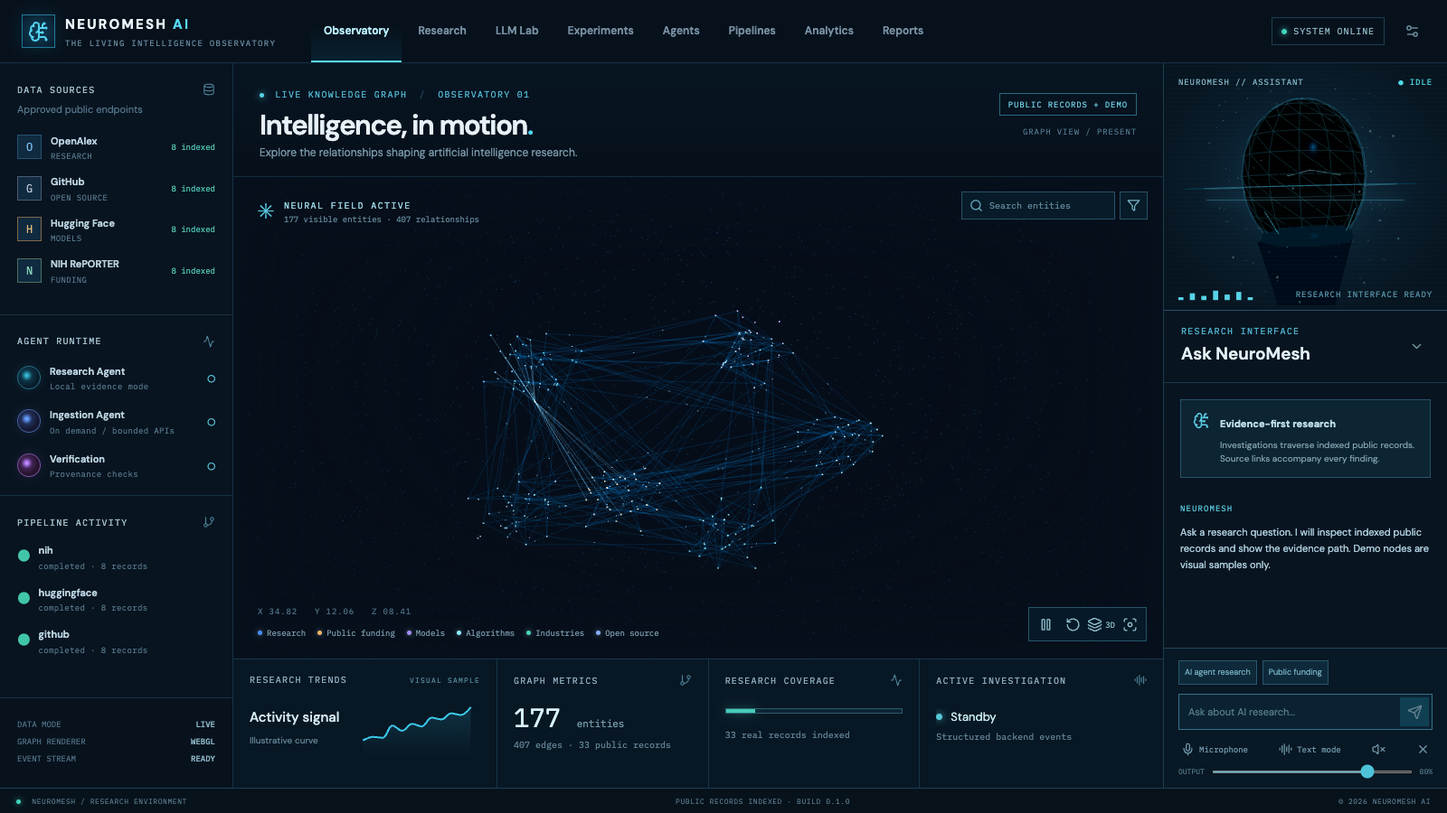
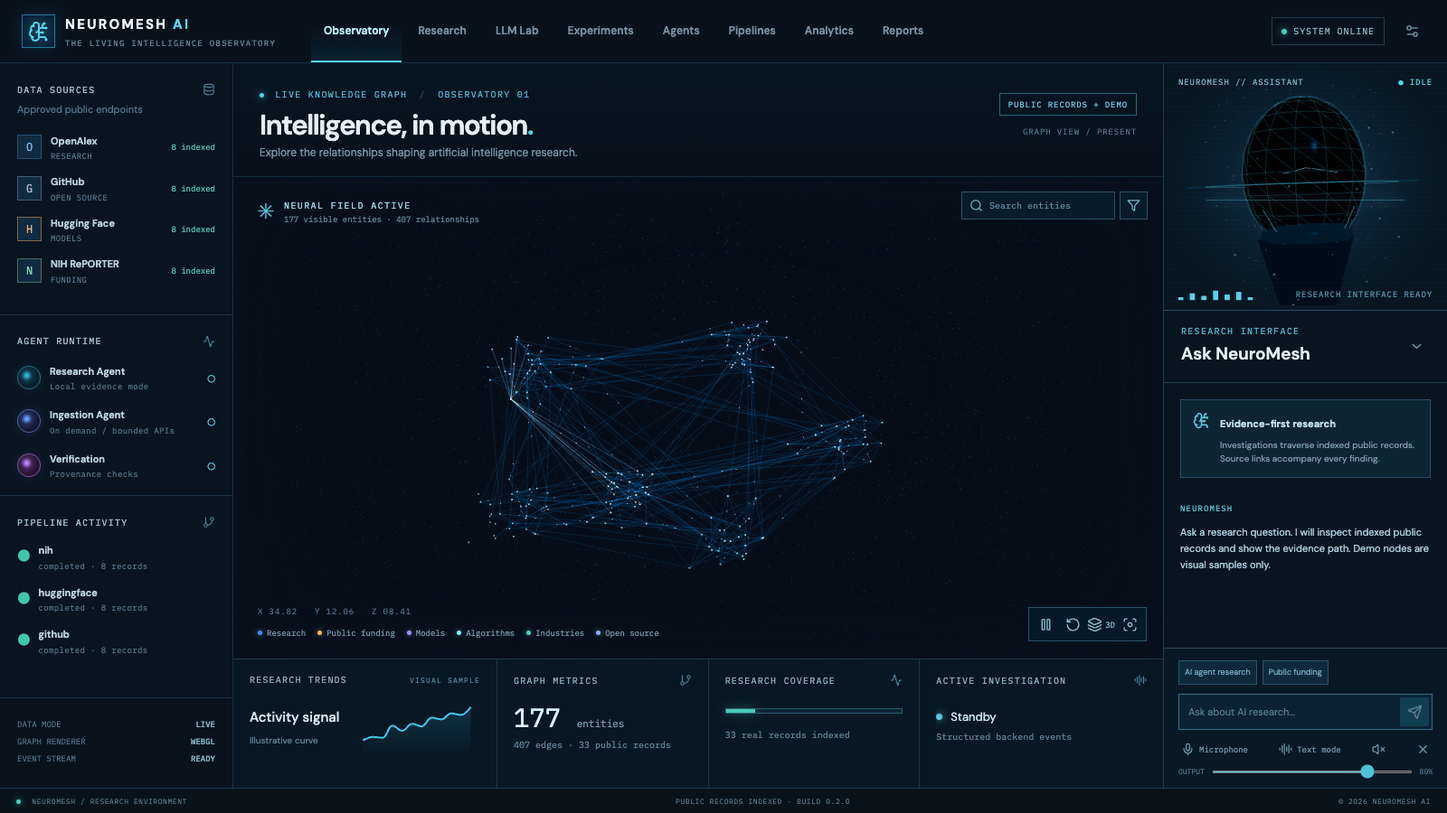
Document verified Observatory and staged Google Cloud cost gate

Changed region(s): [[0.3438, 0.3733, 0.625, 0.6844], [0.8438, 0.1244, 0.9688, 0.28]]

diff --git a/README.md b/README.md
@@ -1,49 +1,48 @@
 # NeuroMesh AI
 
-NeuroMesh AI is an open source research workbench for tracing public AI research, funding, models, and software through a 3D evidence graph. It asks how research growth relates to public investment, open source implementation, and documented adoption; it does not treat a search match as proof of a relationship.
+NeuroMesh AI is an open source research workbench for tracing public AI research, funding, models, and software through an interactive 3D evidence graph. Its central question is how research growth relates to public investment, open source implementation, and documented adoption. A search match is never treated as proof of a relationship.
 
 ![NeuroMesh AI Observatory](docs/screenshots/observatory-home.png)
 
-The screenshot is from the running React and FastAPI application. It shows 32 public records collected in a bounded local sync and a separately labeled demonstration graph used to exercise the visualization.
+This is a Playwright screenshot of the running React and FastAPI application. It contains 32 indexed public records from a bounded local sync and a separately labeled visual demonstration layer.
 
-## Current implementation
+## What works today
 
-The Observatory renders animated WebGL points, typed edges, directional particles, camera controls, search, category filtering, selection, and a procedural shadow hologram. The assistant accepts typed questions and streams actual backend retrieval events over Server-Sent Events; matched records light up in the graph and source links appear in the answer. Browser speech recognition and speech synthesis are available where supported, with explicit microphone activation, mute, interruption, volume, and word-boundary-driven jaw motion. The avatar and voice path need more rigorous timing validation before release claims about speech synchronization.
+The Observatory renders an animated WebGL field, typed edges, directional particles, camera controls, search, filters, selection, a source inspector, and a procedural shadow hologram. Typed questions trigger real Server-Sent Events from indexed retrieval. Matched nodes illuminate, and answers include source links. The Research page searches indexed records; Pipelines displays actual ingestion jobs; Analytics shows live graph measurements and deterministic TF-IDF title clusters. Agents displays operator-only execution history when available. LLM Lab, Experiments, and Reports clearly report that no measured runs exist.
 
-The API stores original public records, normalized entities, evidence, edges, ingestion jobs, and investigations in SQLite for local development. OpenAlex, GitHub, Hugging Face, and NIH RePORTER connectors use documented public APIs, bounded page sizes, and source URLs. An authenticated admin endpoint starts syncs. Public investigation calls use local evidence retrieval and have an in-memory rate limit. A configured Google ADK agent may synthesize from a bounded evidence catalog only when an operator supplies an admin token, model, and credentials. No provider model call is made by default.
+Browser speech recognition is available where supported after explicit microphone activation. Browser synthesis uses word-boundary timing. The optional operator-only Google Cloud Text-to-Speech path decodes generated audio in Web Audio and drives the hologram jaw from its PCM amplitude; stopping playback stops the animation. No raw microphone recording is stored by the app. Voice behavior depends on browser permissions and configured cloud access.
 
 ## Architecture
 
 ```text
-Public APIs → bounded connectors → source records + evidence → entities / verified title edges
-                                                      ↓
-React + Three.js ← JSON graph + SSE events ← FastAPI research service
-                                     ↘ deterministic graph analytics
-                                      ↘ optional, admin-only Google ADK synthesis
+Approved public APIs → bounded connectors → records, evidence, entities, typed edges
+                                               ↓
+React / Three.js ← graph JSON + actual SSE events ← FastAPI → PostgreSQL or SQLite
+                                                   ├→ PageRank and TF-IDF analysis
+                                                   ├→ operator-only ADK research → verification
+                                                   └→ operator-only Cloud Text-to-Speech
 ```
 
-See [system architecture](docs/architecture/system.md) for the data path and trust boundaries. The intended production architecture is Cloud Run, Cloud SQL PostgreSQL with pgvector, Cloud Storage, Cloud Run Jobs, Pub/Sub, Scheduler, Secret Manager, and Vertex AI. The present code is a local prototype; the included Terraform is a Cloud Run API preview and does not provide durable persistence.
+See [system architecture](docs/architecture/system.md) for trust boundaries and storage. The Google Cloud target is one capped Cloud Run service serving the React bundle and API, backed by a dedicated Cloud SQL PostgreSQL instance, Artifact Registry, Secret Manager, and a scoped runtime service account. Terraform has been validated but **not applied**.
 
-## Stack
+## Stack and graph semantics
 
-React 19, TypeScript, Vite, React Three Fiber, Three.js, Tailwind CSS, ECharts, FastAPI, SQLite, NetworkX, optional Google ADK, Vitest, Pytest, and Playwright. The main scene uses buffer geometry for entity points, lines, and moving edge particles, plus instanced hit targets. It pauses rendering updates in hidden tabs and honors reduced motion preferences.
+React 19, TypeScript, Vite, React Three Fiber, Three.js, Tailwind CSS, ECharts, FastAPI, SQLite/PostgreSQL, NetworkX, Google ADK, Google Cloud Text-to-Speech, Vitest, Pytest, and Playwright. The scene uses buffer geometry and instanced hit targets, pauses updates in hidden tabs, and honors reduced motion preferences.
 
-## Sources and graph semantics
+Each source record has an external ID, original JSON, URL, and retrieval time. Entities point to source records; relationships have a type, confidence class, optional evidence ID, and demo flag. The current extractor creates a verified `MENTIONS` edge only when a record title literally contains the collection query. Demo edges have no evidence and are never included in live analytics.
 
-| Source | Record type | Current connector |
+| Source | Record type | Connector |
 | --- | --- | --- |
 | [OpenAlex](https://docs.openalex.org/) | Publications | Works search |
 | [GitHub](https://docs.github.com/en/rest/search) | Repositories | Repository search |
 | [Hugging Face Hub](https://huggingface.co/docs/hub/api) | Models | Public models API |
 | [NIH RePORTER](https://api.reporter.nih.gov/) | Public awards | Project search v2 |
 
-Entities have an ID, type, label, source record, and demo flag. Relationships have a type, confidence class, optional evidence ID, and demo flag. The current extractor creates a `MENTIONS` edge only when a record title literally contains the collection query. That edge is `verified` against a source URL. Search results without a literal match remain unconnected records. Demo edges are marked `similarity` and carry no evidence. Future extractors must preserve the distinction among verified, extracted, inferred, and semantic edges.
+## Agents, analytics, and research method
 
-## Agent orchestration and analysis
+Public investigations use bounded local evidence retrieval. With an operator token, configured Vertex model, and explicit ADK enablement, a Google ADK research agent reads a bounded catalog and a verification agent checks its draft against that catalog. ADK execution events and token counts are recorded; model calls are limited to four per investigation, 60 seconds, and 20 investigations per day by default. Provider calls are off by default. Retrieved text is treated as data, and agent tools cannot execute commands or arbitrary SQL.
 
-The research endpoint emits `investigation.started`, `agent.activated`, `query.planned`, `source.search.*`, `entity.matched`, `graph.path.selected`, `analysis.*`, `response.streaming`, and `investigation.completed` events during actual execution. The default answer is deterministic and explicitly limits its claims. The optional ADK path is configured with a bounded `get_evidence` tool and instructions to cite exact URLs and reject instructions embedded in source text. Agent retries, traces, cost accounting, and a full specialist team remain future work.
-
-`GET /api/analytics` computes connected components, density, and PageRank by deterministic power iteration. It excludes demo nodes by default. This is graph structure analysis, not a result about the primary research question. The [research protocol](docs/research/methodology.md) prespecifies the 2023–2026 hypothesis, lag windows, indicators, missingness checks, and confidence interval plan.
+`GET /api/analytics` computes PageRank, density, and connected components on live nodes. `GET /api/clusters` builds deterministic TF-IDF vectors from source titles, joins records above a fixed cosine threshold, and returns a dataset SHA-256 fingerprint plus source URLs. Title clustering is a lexical baseline, not a scientific relationship result. The [prespecified research protocol](docs/research/methodology.md) defines the 2023–2026 hypothesis, lag windows, missingness checks, and confidence interval plan. **The primary scientific experiment has not run**, and there are no published correlations or model rankings.
 
 ## Local development
 
@@ -58,32 +57,32 @@ python3 -m venv .venv
 npm run dev
 ```
 
-Open `http://127.0.0.1:5173`. The API starts with a clearly labeled seeded graph. To collect public records locally without credentials:
+Open `http://127.0.0.1:5173`. The seeded visual layer is explicitly marked as demonstration data. To index a bounded public sample:
 
 ```bash
 .venv/bin/python scripts/sync_public.py --query 'artificial intelligence' --limit 8
 ```
 
-The script makes at most one bounded request to each of four public APIs and persists original payloads and URLs in `data/neuromesh.db`, which is ignored by Git. To use the admin HTTP sync endpoint, set a long `NEUROMESH_ADMIN_TOKEN` outside the repository and pass it in `X-Admin-Token`. To enable ADK synthesis, also configure `NEUROMESH_ENABLE_ADK=true`, `NEUROMESH_MODEL`, and supported Google credentials. Anonymous visitors cannot trigger model calls.
+The command makes one request to each of four approved public APIs. SQLite lives in ignored `data/neuromesh.db`. To use the operator HTTP endpoints, set a long `NEUROMESH_ADMIN_TOKEN` outside Git and enter it in the Observatory settings. A PostgreSQL URL can be supplied with `NEUROMESH_DATABASE_URL`. The optional `NEUROMESH_ENABLE_ADK`, `NEUROMESH_MODEL`, and `NEUROMESH_ENABLE_CLOUD_TTS` settings require Google credentials and may incur charges.
 
 ## Google Cloud deployment
 
-The preview Dockerfile and Terraform module are in `services/api` and `infrastructure/terraform`. They define one capped Cloud Run API instance in `us-central1`, with ADK disabled. This preview uses ephemeral SQLite and is unsuitable for retained research data. A production deployment requires Cloud SQL integration and migrations, a frontend service, service identities, Secret Manager bindings, scheduled ingestion, and a durable rate limiter. No cloud resource is created by this repository. Review the [cost gate](docs/architecture/costs.md) before enabling billing; the minimum persistent Cloud SQL compute scenario is about $7.67/month before storage and other services.
+Deployment is staged in [Terraform](infrastructure/terraform/main.tf). The module targets the **existing** `moesautomationweekly` project and uses new NeuroMesh-specific names. Stage one creates the image repository, runtime identity, secrets, and a dedicated 10 GiB `db-f1-micro` PostgreSQL instance. Stage two builds and deploys a single max-one-instance Cloud Run service. No existing project service or database is in Terraform state. The verified stage-one plan is **14 additions, 0 changes, 0 deletions**. A detailed runbook is in [GCP deployment](docs/architecture/gcp-deployment.md).
 
-## Testing and observed results
+No GCP resources have been provisioned. Review the [monthly cost estimate and guardrails](docs/architecture/costs.md) before applying Terraform or running Cloud Build. Baseline persistent cost is estimated around $10–$15/month at low traffic, with additional usage charges. ADK and Cloud TTS default to off. Terraform state contains generated secrets and must remain private.
+
+## Tests and observed results
 
 ```bash
 npm run build
 npm test
 .venv/bin/pytest -q services/api/tests
-npm run test:e2e  # with both development servers running
+npm run test:e2e       # with the local API and web servers running
 node scripts/capture_observatory.mjs
 ```
 
-The initial local sync returned eight records from each of the four sources. Browser verification confirmed the homepage, both WebGL canvases, a completed investigation event stream, and zero page errors during screenshot capture. Backend tests cover demo separation, admin gating, citation provenance, bounded investigation behavior, and repeatable graph metrics. These are engineering checks; **the primary scientific experiment has not been run**, so there are no reported correlations or model benchmark results.
+The local four-source sync returned eight records per source. Automated checks cover API authorization, provenance, idempotent ingestion, repeatable graph metrics, deterministic title clusters, PostgreSQL integration, Observatory rendering, a cited investigation, Research navigation, and Analytics display. Playwright captured the screenshot above from the working app with zero page errors. The ADK and paid Cloud voice paths are wired but have not made paid provider calls or passed a deployed integration test.
 
 ## Limitations and next work
 
-The research, LLM Lab, Experiments, Agents, Pipelines, Analytics, and Reports tabs are navigation scaffolds; the Observatory is the implemented workbench. Search is lexical over a small local index. The 3D layout is a seeded cluster and spring simulation; larger graph layout, drag interactions, temporal snapshots, camera guided traversal, and stronger level of detail are pending. Browser speech APIs vary by platform, and word boundaries are not phoneme or amplitude data. The full Google Cloud speech pipeline, durable Postgres and pgvector store, broader ingestion catalog, entity resolution, multi-agent ADK workflow, reproducible primary study, and provider evaluation lab are not implemented.
-
-The next milestone is durable data and richer evidence extraction, followed by voice timing and agent orchestration. No research claim should be published until the prespecified experiment is executed and reviewed.
+The graph still relies on a seeded visual layer to demonstrate density while the live index is small. Search is lexical; only literal title mentions create verified edges. The primary study, broader public connectors, source alias resolution, pgvector embeddings, scheduled jobs, historical snapshots, full experiment runner, provider comparison lab, and durable multi-turn agent context remain incomplete. Browser speech support varies; the Cloud TTS path still requires a deployed integration test. Cloud deployment and ingestion are pending the cost approval required for this project. These gaps are tracked as implementation work, not presented as research results.

diff --git a/docs/architecture/gcp-deployment.md b/docs/architecture/gcp-deployment.md
@@ -1,0 +1,55 @@
+# Google Cloud deployment runbook
+
+This runbook is prepared for the existing `moesautomationweekly` project. **Applying it creates billable resources.** Review [costs.md](costs.md) and obtain the project's cost approval first. The current build has only inspected the project and run a read-only Terraform plan.
+
+## Preflight
+
+Use an authenticated Google Cloud CLI account with the required project, IAM, Cloud SQL, Artifact Registry, Secret Manager, Cloud Build, and Cloud Run permissions. Existing Cloud Run services and the existing SQL instance are outside this Terraform state. The required APIs are already enabled in the project. Verify the current account, project, and Terraform plan before applying.
+
+```bash
+gcloud auth list
+gcloud config set project moesautomationweekly
+cd infrastructure/terraform
+terraform init
+terraform validate
+terraform plan -var project_id=moesautomationweekly -var deploy_app=false
+```
+
+Stage one should show 14 additions and zero changes or deletions from an empty state. The SQL instance is deletion protected. Store Terraform state privately; it contains generated database and operator secrets. Before repeated team use, migrate state to a private encrypted backend with limited access.
+
+## Stage one: durable infrastructure
+
+After cost approval and a project budget alert are in place:
+
+```bash
+terraform apply -var project_id=moesautomationweekly -var deploy_app=false
+```
+
+This creates a dedicated database, repository, service account, Secret Manager entries, and narrow IAM grants. It does not start Cloud Run or enable ADK/TTS.
+
+## Stage two: image and service
+
+From the repository root, use the repository URI from Terraform output. Build the multi-stage Dockerfile with Cloud Build and push an immutable image tag:
+
+```bash
+IMAGE=us-central1-docker.pkg.dev/moesautomationweekly/neuromesh/observatory:0.2.0
+gcloud builds submit --project moesautomationweekly --config cloudbuild.yaml --substitutions _IMAGE=$IMAGE .
+cd infrastructure/terraform
+terraform plan -var project_id=moesautomationweekly -var deploy_app=true -var image=$IMAGE
+terraform apply -var project_id=moesautomationweekly -var deploy_app=true -var image=$IMAGE
+terraform output -raw app_url
+```
+
+Cloud Run is public so visitors can explore indexed records and submit bounded local investigations. Model calls, source synchronization, and Cloud speech require the operator token. Retrieve that token in a private terminal using `terraform output -raw operator_token` and enter it in the app settings. The token is held in browser memory for that tab. Do not put it in URLs, Git, screenshots, or shared logs.
+
+The initial Cloud SQL database is empty except for the labeled visual demonstration layer. In the app settings, run the bounded four-source sync as operator, then verify the source counts, evidence links, Research records, and Analytics fingerprint. Repeated syncs upsert records by stable source ID.
+
+## Optional paid model and voice
+
+After a separate provider usage review, set `enable_adk=true`, `model_id=gemini-3.5-flash-lite`, and `model_location=global` in a Terraform plan. The model identifier and endpoint were checked against current Google documentation; verify availability again before applying. The runtime service account receives `roles/aiplatform.user` only when ADK is enabled. Cloud TTS may be enabled with `enable_cloud_tts=true`. Both are disabled by default and are restricted to operator requests with persistent daily usage reservations.
+
+The browser microphone path uses browser speech recognition; Cloud TTS supplies generated playback audio and jaw amplitude. Verify the voice path on the deployed URL in a supported browser before describing it as production validated.
+
+## Operational checks
+
+Check `/api/health`, `/api/status`, `/api/analytics`, and `/api/clusters`. Review Cloud Run revisions, Cloud SQL health, Cloud Logging errors, and daily billed usage. The app is limited to one Cloud Run instance but Cloud SQL runs continuously. Budget alerts are notifications, not hard service caps. Keep the operator token private; rotate its Secret Manager version if disclosed.

diff --git a/docs/architecture/system.md b/docs/architecture/system.md
@@ -3,17 +3,20 @@
 ```mermaid
 flowchart LR
   Sources[Approved public APIs] --> Sync[Bounded ingestion connectors]
-  Sync --> Store[(SQLite local prototype)]
-  Store --> API[FastAPI]
-  API -->|JSON graph + status| Web[React / Three.js]
-  API -->|SSE investigation events| Web
-  API --> Search[Evidence-bounded retrieval]
-  Search -->|optional, operator authenticated| ADK[Google ADK + configured Gemini model]
-  Store --> Analytics[Deterministic graph analytics]
+  Sync --> DB[(SQLite local / Cloud SQL PostgreSQL)]
+  DB --> API[FastAPI on Cloud Run]
+  API -->|JSON graph, metrics, citations| Web[React / Three.js]
+  API -->|SSE execution events| Web
+  API --> Search[Lexical evidence retrieval]
+  Search -->|operator only| ADK[ADK research + verification agents]
+  API -->|operator only| TTS[Google Cloud Text-to-Speech]
+  DB --> Analytics[PageRank + TF-IDF clustering]
 ```
 
-The local prototype stores source payloads and normalized entities in SQLite. A source record has a stable external ID, URL, retrieval time, and original JSON. An entity points to its source record. An edge can point to an evidence row. The only generated real edges today are literal title mentions of the collection query; they are marked `verified`. Search matches do not become relationship claims.
+Source records retain the original JSON, URL, retrieval time, and stable external ID. Normalized entities point to records. A real edge carries a confidence class and evidence ID. Today the extractor creates `MENTIONS` edges only when the collection query occurs literally in a title. Search matches are never promoted into relationship claims. The research API emits `entity.matched` and `graph.path.selected` using actual indexed IDs. The visual sample layer has `demo=1`, no source record, and no research provenance.
 
-The Observatory renders visual samples alongside public records. Samples have `demo=1` and no evidence. The investigation endpoint emits each SSE event during real server execution. The UI highlights entity IDs supplied by those events. The optional ADK path receives a bounded evidence catalog and is gated by an admin token; anonymous requests use deterministic retrieval without paid model calls.
+The ADK workflow is a bounded sequential pair: a research agent calls a read-only evidence tool, then a verification agent reviews the draft against the same catalog. It is disabled unless the operator token and model configuration are present. Its execution events and token totals come from ADK's event stream. Runs are capped at four model calls, 60 seconds, and 20 invocations per UTC day by default. Cloud speech is likewise operator-only and reserves characters against a 20,000-character daily cap. The public investigation endpoint only searches local indexed data.
 
-Production migration requires Cloud SQL PostgreSQL, durable raw record storage, scheduled jobs, migrations, and centralized rate limits. The included Terraform module is a Cloud Run API preview only and does not solve persistence.
+The Terraform module creates a dedicated Cloud SQL database, Artifact Registry repository, runtime service account, Secret Manager secrets, and a max-one-instance Cloud Run service within the existing `moesautomationweekly` project. It does not modify the project's other Cloud Run services or SQL instance. Cloud Run serves the built React bundle and API from one container; its app user connects through the Cloud SQL Unix socket. Deployment is staged so the infrastructure can be reviewed before an image exists.
+
+Current gaps: scheduled incremental jobs, raw Cloud Storage archive, pgvector embeddings, source alias resolution, durable session context, and automated primary-study runs. The deployed app can be seeded with bounded public syncs through the operator endpoint. The README and [cost gate](costs.md) distinguish this working slice from the remaining research platform.

diff --git a/docs/architecture/costs.md b/docs/architecture/costs.md
@@ -1,5 +1,11 @@
 # Deployment cost gate
 
-No GCP resources were provisioned. For a small prototype in `us-central1`, two request billed Cloud Run services with zero minimum instances may stay within the published free tier at low traffic; this is a scenario, not a guarantee. A continuously running Cloud SQL `db-f1-micro` starts at about **$7.67 per 730-hour month** for compute alone (`$0.0105 × 730`), before storage, backups, egress, logging, and any Gemini, speech, or embedding calls. A practical personal budget should reserve **$15–$50/month** for a minimal persistent installation and set billing alerts at $10 and $25. Provider calls need separate hard quotas and an operator approval gate. Recalculate with the Google Cloud calculator before enabling billing or deploying.
+No GCP resources have been created by this build. The validated stage-one Terraform plan for `moesautomationweekly` proposes **14 additions, 0 changes, 0 deletions**. Stage two adds the Cloud Run service and public invoker binding after an image is built. Existing services and the existing SQL instance remain outside this module.
 
-Sources: [Cloud Run pricing](https://cloud.google.com/run/pricing), [Cloud SQL pricing](https://cloud.google.com/sql/pricing), [Cloud Storage pricing](https://cloud.google.com/storage/pricing).
+At 730 hours per month in `us-central1`, a new `db-f1-micro` Cloud SQL instance costs about **$7.67 compute** plus about **$1.70 for 10 GiB SSD**, before backup storage and network charges. The shared-core tier has no SLA. Cloud Run has a billing-account-wide free tier, but this project shares the billing account with other workloads, so no free allocation is assumed. Artifact Registry charges beyond its billing-account-wide 0.5 GiB-month free allocation. Cloud Build, Secret Manager, logging, and transfer may add small usage-based charges. The persistent baseline is therefore roughly **$10–$15/month at low traffic**, and **$20–$40/month** is a more prudent test budget. This is an estimate, not a cap.
+
+The deployment defaults to **ADK off and Cloud TTS off**. If enabled after approval, the app caps model investigations at 20/day with at most four calls and 768 output tokens per agent; Cloud TTS is capped at 20,000 characters/day. Neural2 speech is priced at $16 per million characters, so running the speech cap every day would be about $9.60 for a 30-day month. Gemini cost depends on the selected model and input/output tokens. Both paid endpoints require a separate operator token. Public visitors can use indexed retrieval without provider calls.
+
+Set a project-specific budget alert before deployment, for example $10, $25, and $40. Budget alerts notify but **do not automatically stop billing**. Review [Cloud SQL](https://cloud.google.com/sql/pricing), [Cloud Run](https://cloud.google.com/run/pricing), [Artifact Registry](https://cloud.google.com/artifact-registry/pricing), [Text-to-Speech](https://cloud.google.com/text-to-speech/pricing), and [Gemini](https://cloud.google.com/gemini-enterprise-agent-platform/generative-ai/pricing) prices immediately before applying, because rates and free tiers change.
+
+Terraform state contains generated database and operator secrets. Keep it outside Git in a private, encrypted state backend with tightly scoped access for ongoing use; the local state file is ignored by Git for this initial review. Never paste its contents into issues, logs, or commits.
